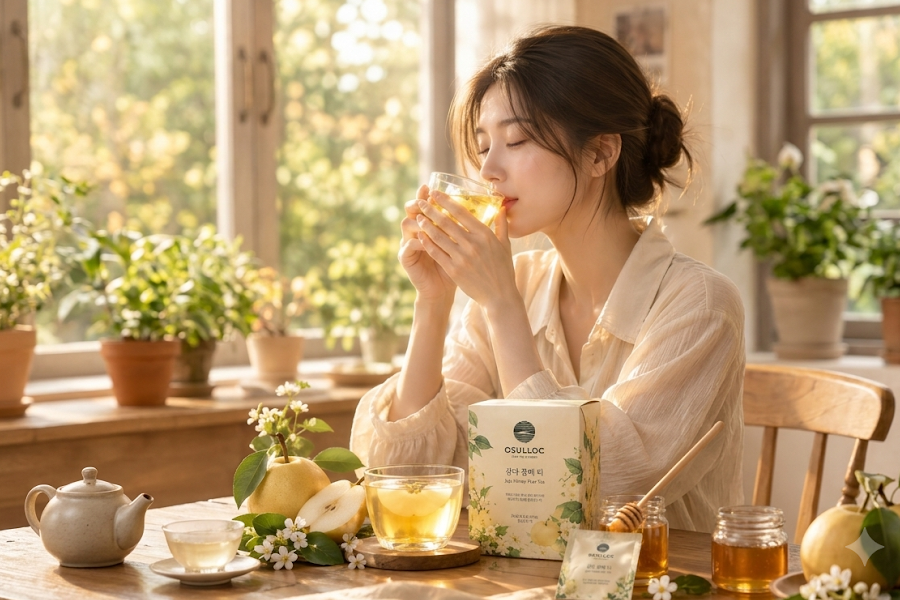
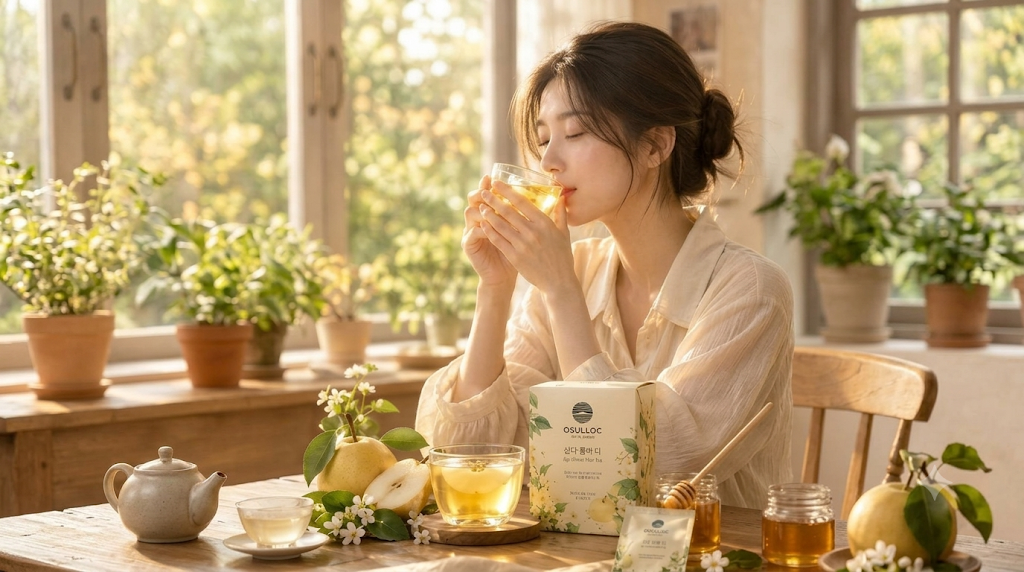
Add files via upload

diff --git a/css/style.css b/css/style.css
@@ -165,10 +165,11 @@ section[id]{scroll-margin-top:var(--gnb-h)}
 .fullvisual--tall{height:90vh}
 .fullvisual__video,.fullvisual__img{position:absolute;left:0;top:-8%;width:100%;height:116%;object-fit:cover;will-change:transform}  /* 패럴랙스 여유 공간 */
 .fullvisual__img{z-index:0}.fullvisual__video{z-index:1}  /* 영상이 있으면 영상이, 없으면 이미지가 보임 */
-.fullvisual__overlay{position:absolute;inset:0;z-index:2;background:linear-gradient(rgba(40,28,18,.25),rgba(40,28,18,.5))}  /* ★ 수정: 글자 가독성용 오버레이 농도 */
+.fullvisual__overlay{position:absolute;inset:0;z-index:2;background:linear-gradient(180deg,rgba(28,20,13,.26) 0%,rgba(28,20,13,.18) 45%,rgba(28,20,13,.36) 100%)}  /* ★ 수정: 글자 가독성용 은은한 오버레이(전체 약 18~36%, 상·하단이 조금 더 어둡게) */
 .fullvisual__text{position:relative;z-index:3;padding:0 24px}
 .fullvisual__text .en{color:#F7D9B0;font-size:20px;margin-bottom:12px}
-.fullvisual__text h2{color:#fff;font-size:clamp(28px,4.6vw,56px);text-shadow:0 2px 20px rgba(0,0,0,.25)}
+.fullvisual__text h2{color:rgba(255,255,255,.9);font-weight:500;letter-spacing:.06em;line-height:1.5;font-size:clamp(28px,4.4vw,52px);text-shadow:0 1px 3px rgba(20,12,6,.28),0 4px 24px rgba(20,12,6,.32)}  /* 500 두께 · 넓은 자간 · 90% 흰색 · 은은한 그림자 */
+.fullvisual__text .en{letter-spacing:.14em;text-shadow:0 1px 8px rgba(20,12,6,.35)}
 
 /* ---------- 6. 이미지·텍스트 교차 ---------- */
 .split{display:grid;grid-template-columns:1fr 1fr;gap:clamp(32px,6vw,96px);align-items:center;margin-top:100px}
@@ -251,9 +252,8 @@ section[id]{scroll-margin-top:var(--gnb-h)}
 .slider{position:relative;margin-top:100px}
 .slider__viewport{overflow:hidden;border-radius:var(--r-lg);box-shadow:var(--shadow-media)}
 .slider__track{display:flex;transition:transform 1.1s var(--ease)}  /* 느리고 부드러운 이동 */
-.slide{position:relative;flex:0 0 100%;aspect-ratio:16/8;background:#d9c7a4}
-.slide img{width:100%;height:100%;object-fit:cover;transform:scale(1.06);transition:transform 6s var(--ease)}  /* 활성 슬라이드에서 천천히 제자리로 */
-.slide.is-active img{transform:scale(1)}
+.slide{position:relative;flex:0 0 100%;aspect-ratio:1024/572;background:#d9c7a4;overflow:hidden}  /* 원본 이미지 비율(1024×572)과 동일 → 여백·잘림 없이 꽉 참 */
+.slide img{width:100%;height:100%;object-fit:cover;object-position:50% 40%}  /* 확대(scale) 제거: 가장자리·인물이 잘리지 않음. 비율이 달라도 인물(중앙 상단) 기준으로 맞춤 */
 .slide::after{content:"";position:absolute;inset:0;background:linear-gradient(0deg,rgba(60,38,20,.78),rgba(60,38,20,.38) 30%,rgba(60,38,20,0) 55%)}  /* 아래쪽에서 올라오는 따뜻한 갈색 오버레이: 캡션 가독성 + 3장면 색감 통일 */
 /* 캡션: 왼쪽 아래에 배치 (가운데 화살표·제품 패키지 글자와 겹치지 않게) */
 .slide__cap{position:absolute;z-index:2;left:clamp(72px,8vw,112px);bottom:clamp(28px,4vw,52px);color:#fff;max-width:520px;text-shadow:0 2px 14px rgba(40,24,12,.45);opacity:0;transition:opacity .9s var(--ease) .3s}
@@ -349,9 +349,11 @@ section[id]{scroll-margin-top:var(--gnb-h)}
   .enjoy__head h2{text-wrap:balance}
   :root{--rcard-h:150px}
   .play{width:68px;height:68px}.play span{left:27px;top:20px;border-width:14px 0 14px 22px}
-  .slide{aspect-ratio:4/5}
-  .slide::after{background:linear-gradient(transparent 30%,rgba(40,28,18,.75))}
-  .slide__cap{left:20px;right:20px;bottom:28px}
+  /* 모바일: 이미지는 원본 비율 그대로 위에, 문구는 아래 갈색 영역에 배치 → 인물 가림·잘림 없음 */
+  .slide{aspect-ratio:auto;display:flex;flex-direction:column;background:#4a3426}
+  .slide img{height:auto;aspect-ratio:1024/572}
+  .slide::after{display:none}
+  .slide__cap{position:static;max-width:none;padding:18px 20px 24px;text-shadow:none}
   .slider{margin-top:56px}
   .slider__btn{display:none}   /* 모바일은 스와이프 */
   .gift__text{text-align:center}.gift__btns{justify-content:center}

diff --git a/index.html b/index.html
@@ -28,7 +28,7 @@
   <!-- 참고: KoPubWorld Batang 은 웹폰트 CDN이 없어 css 에서 Noto Serif KR 로 대체 지정됨 -->
   <link rel="preconnect" href="https://fonts.googleapis.com">
   <link rel="preconnect" href="https://fonts.gstatic.com" crossorigin>
-  <link href="https://fonts.googleapis.com/css2?family=Cormorant+Garamond:ital,wght@0,400;0,600;1,400&family=Noto+Serif+KR:wght@400;600;700&display=swap" rel="stylesheet">
+  <link href="https://fonts.googleapis.com/css2?family=Cormorant+Garamond:ital,wght@0,400;0,600;1,400&family=Noto+Serif+KR:wght@400;500;600;700&display=swap" rel="stylesheet">
   <link rel="stylesheet" href="https://cdn.jsdelivr.net/gh/orioncactus/pretendard@v1.3.9/dist/web/static/pretendard.css">
 
   <link rel="stylesheet" href="css/style.css">
@@ -80,7 +80,7 @@
     <div class="hero__visual">
       <!-- ★ 수정: 제품 패키지 이미지 (실제 패키지의 비율·로고를 변형하지 마세요) -->
       <div class="hero__arch">
-        <img src="images/메인패키지.jpg" data-fallback="images/product-package.svg"
+        <img src="images/메인패키지.jpg" 
              alt="오설록 삼다 꿀배 티 제품 패키지" width="600" height="760">
       </div>
       <!-- 원재료 장식 이미지 (원형) : 순차 등장 후 제자리에서 부유 (제품 이미지는 중앙 고정) / 주기·진폭은 css .deco--* 와 --float-y -->
@@ -98,12 +98,12 @@
 <section class="story" id="story">
   <div class="fullvisual" data-parallax="0.15">
     <video class="fullvisual__video" autoplay muted loop playsinline preload="metadata"
-           poster="" src="images/배꽃바다.webm">
+           poster="images/jeju-sea.svg" src="images/배꽃바다.webm">
       <!-- ★ 수정: 영상 파일 경로 -->
     
     </video>
     <!-- 영상이 없거나 재생이 어려운 환경에서 보이는 대표 이미지 (영상 뒤에 깔림) -->
-   
+    <img class="fullvisual__img" src="images/jeju-sea.svg" data-fallback="images/jeju-sea.svg" alt="제주 바다와 자연 풍경">
     <div class="fullvisual__overlay"></div>
     <div class="fullvisual__text reveal">
       <p class="en">Jeju · Sweet Pause</p>
